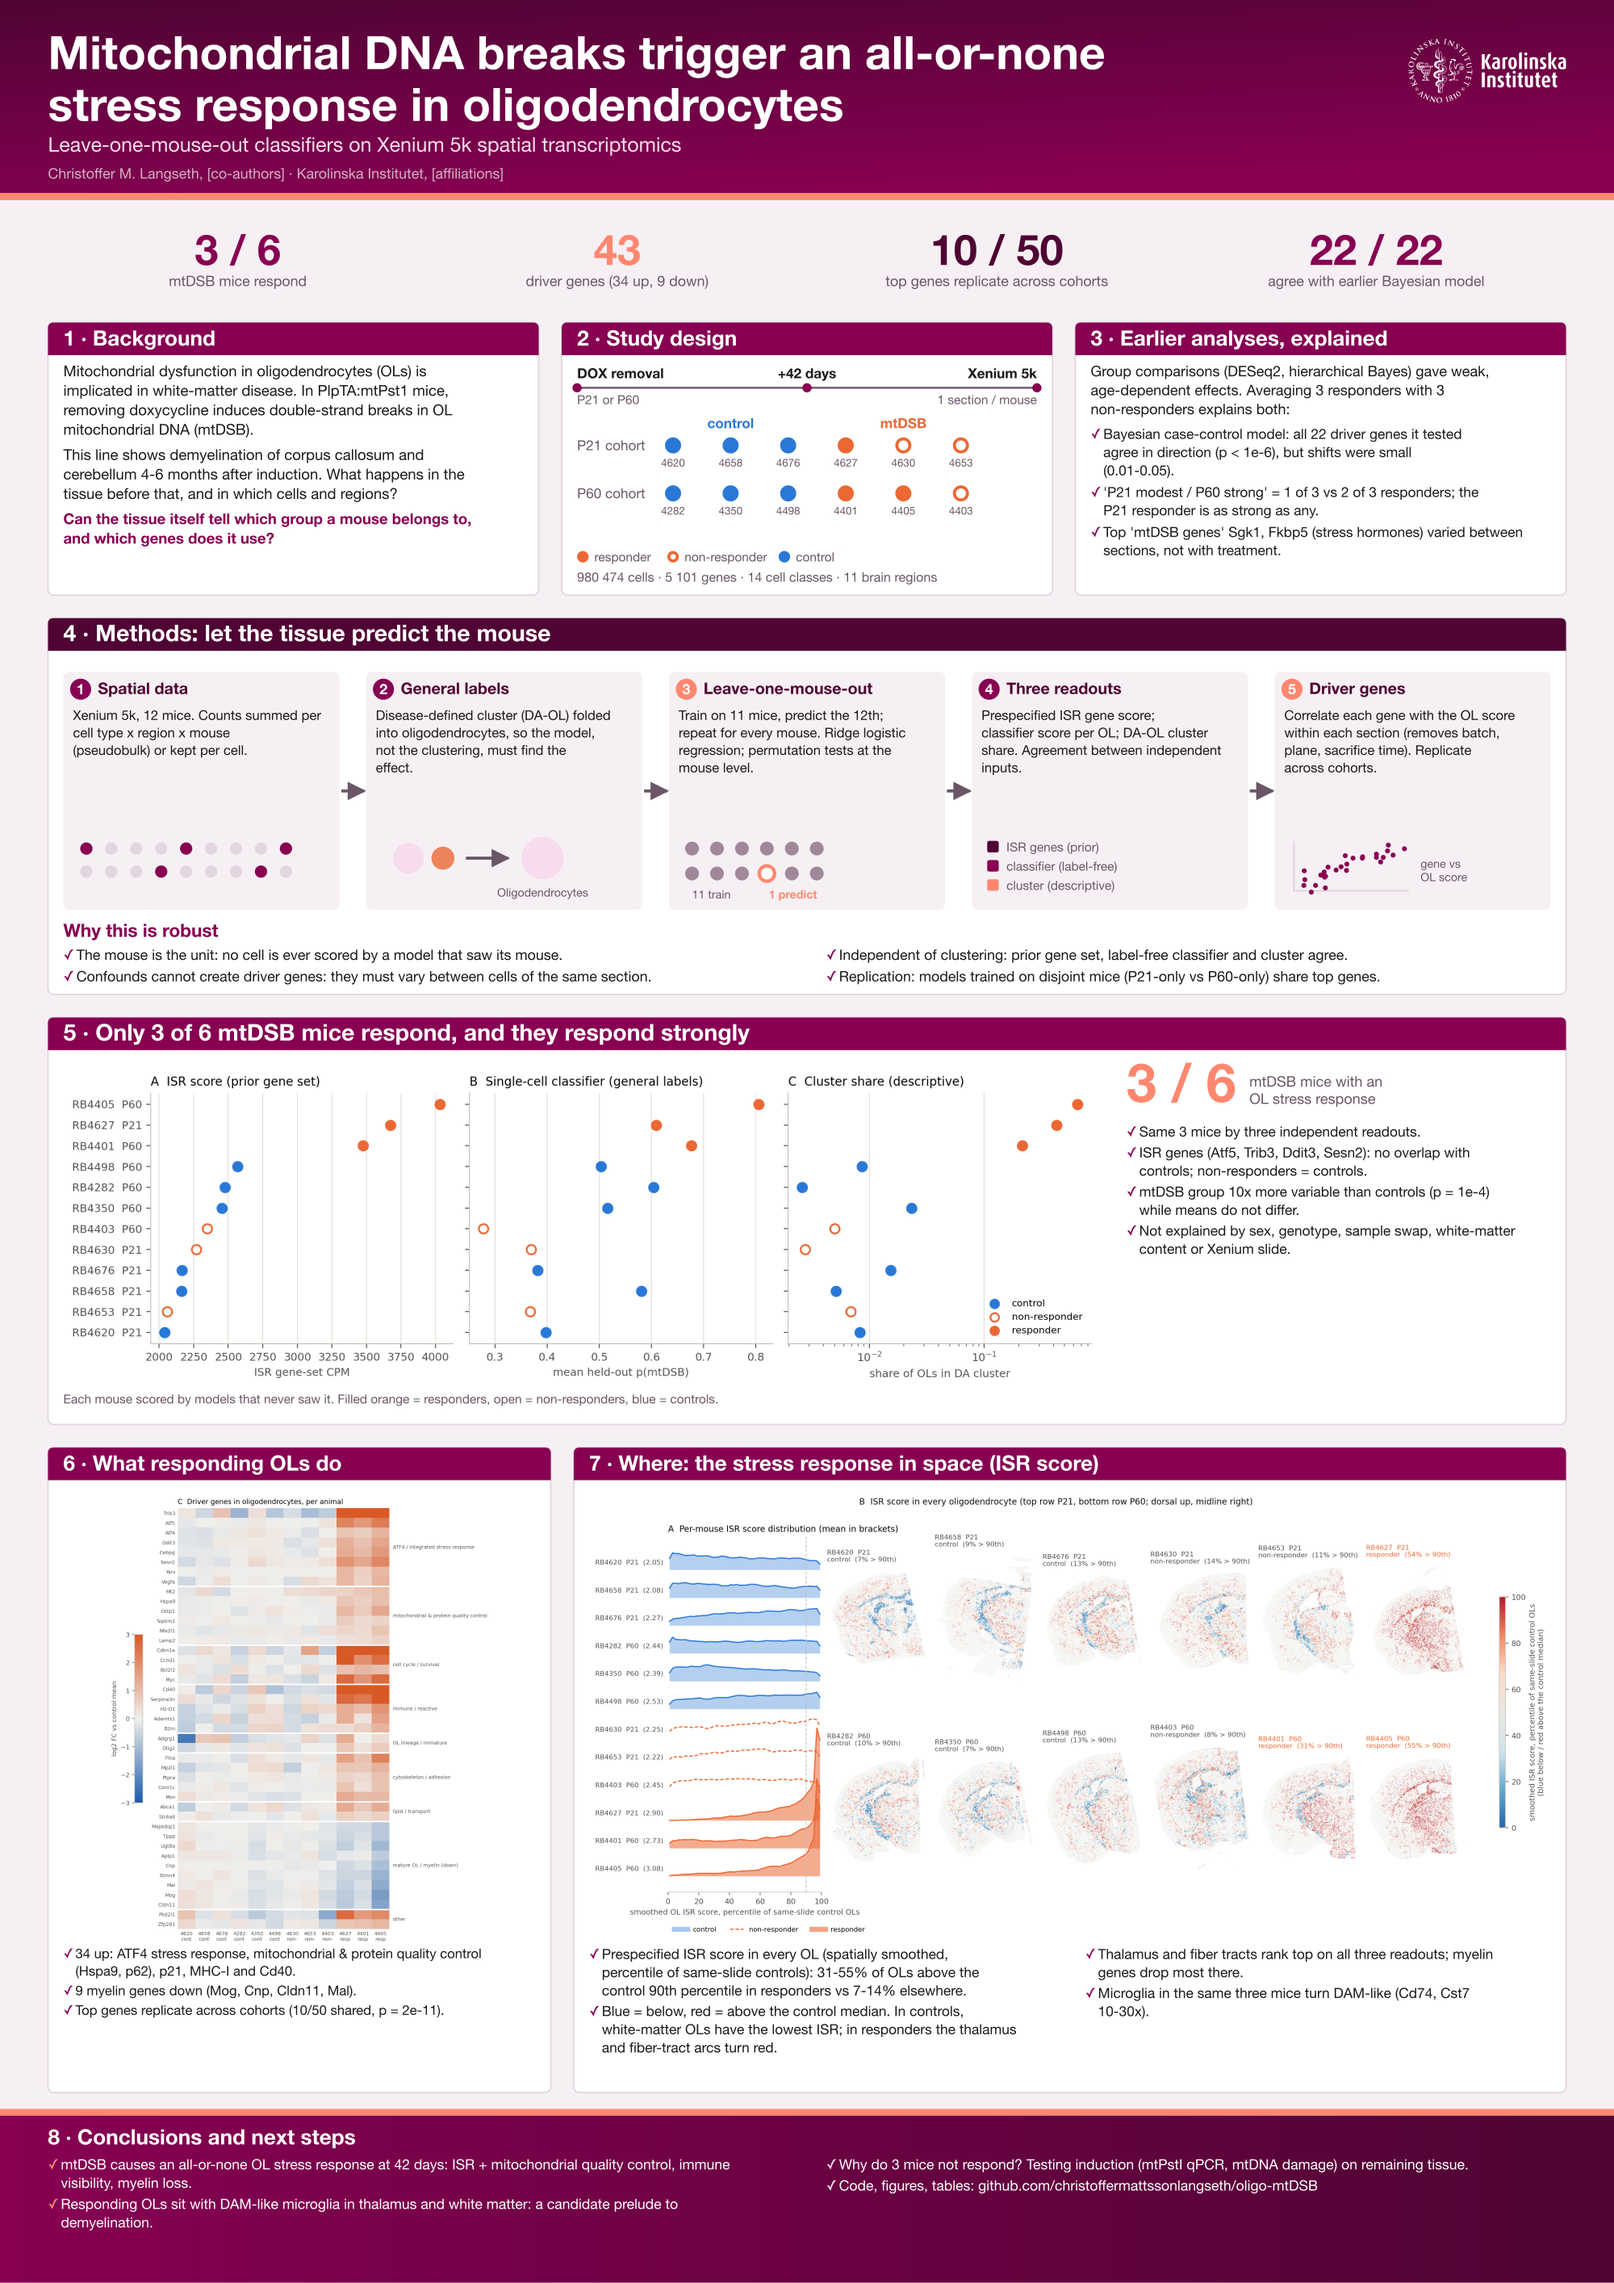
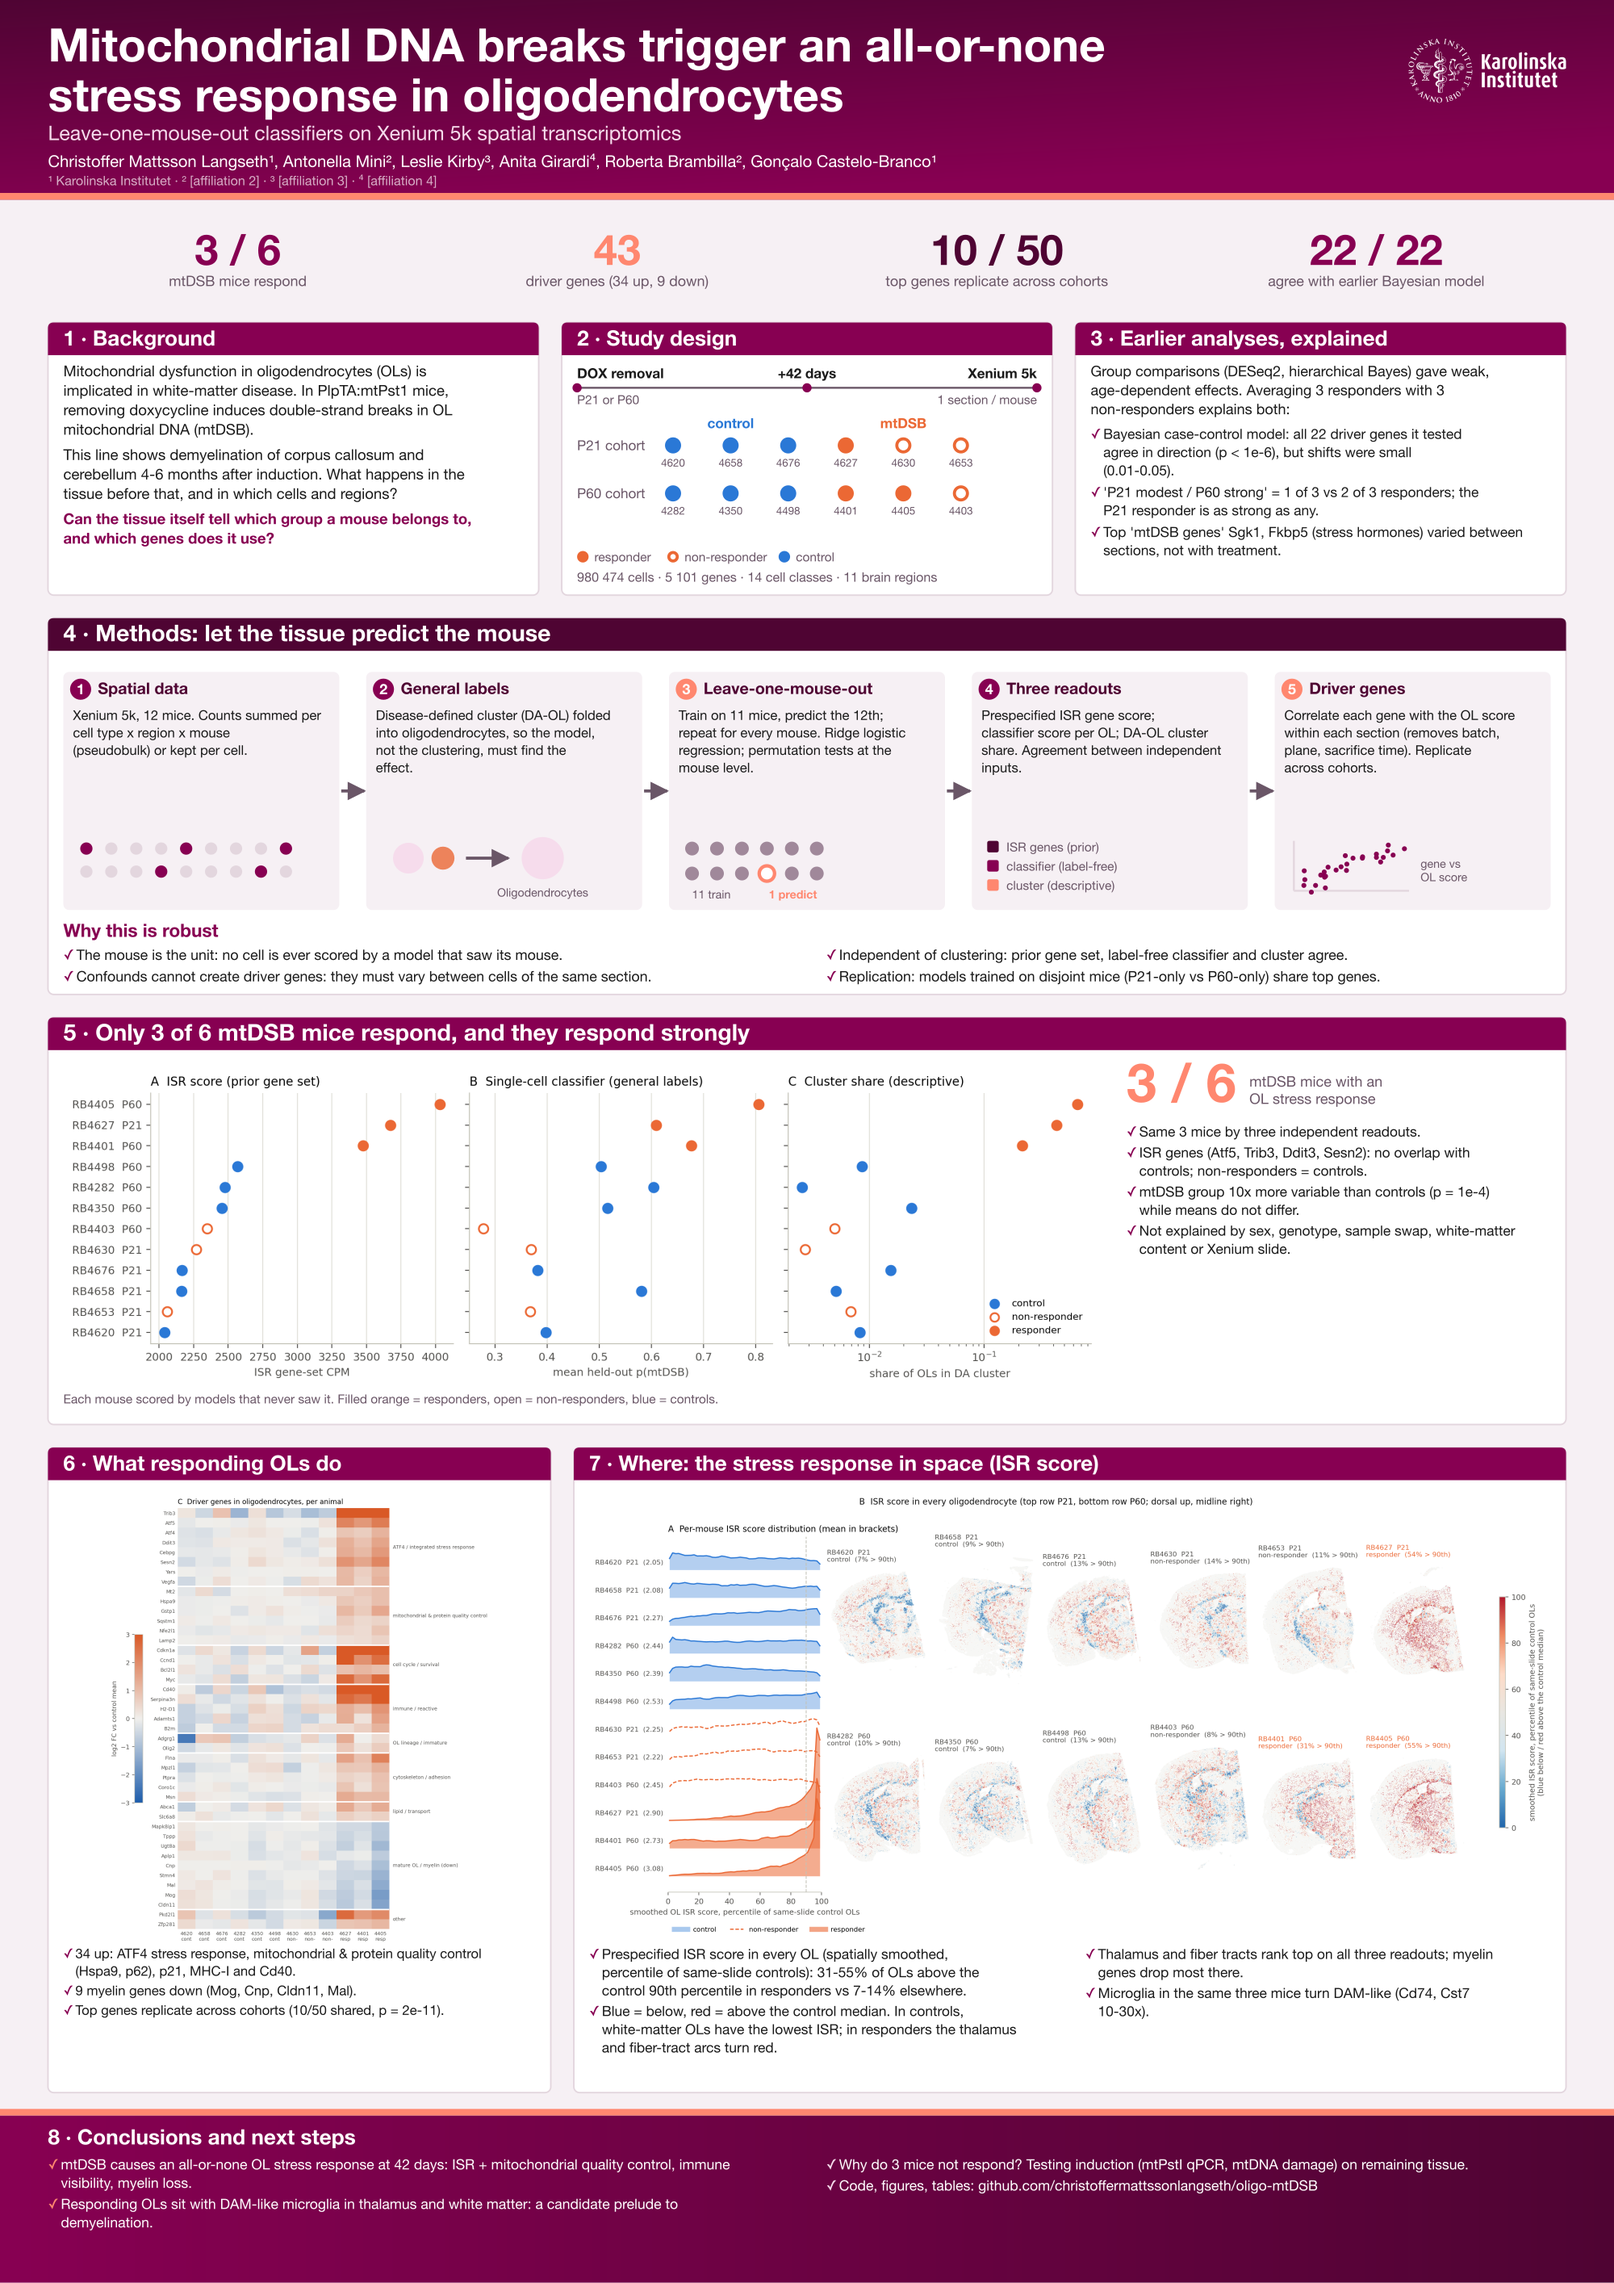
Poster: author list (affiliations 2-4 still placeholders)

Changed region(s): [[0.031, 0.0, 0.682, 0.0934]]

diff --git a/docs/poster/make_poster.py b/docs/poster/make_poster.py
@@ -140,10 +140,14 @@ HH = 104
 add('<g id="header">')
 add(f'<rect x="0" y="0" width="{W}" height="{HH}" fill="url(#header-gradient)"/>')
 add(f'<rect x="0" y="{HH - 3.5}" width="{W}" height="3.5" fill="{CORAL}"/>')
-text(M, 36, "Mitochondrial DNA breaks trigger an all-or-none", size=24, color="#ffffff", weight="bold")
-text(M, 63, "stress response in oligodendrocytes", size=24, color="#ffffff", weight="bold")
-text(M, 79, "Leave-one-mouse-out classifiers on Xenium 5k spatial transcriptomics", size=10.5, color=PINK_LIGHT)
-text(M, 93, "Christoffer M. Langseth, [co-authors]  ·  Karolinska Institutet, [affiliations]", size=7.5, color=PINK_MID)
+text(M, 32, "Mitochondrial DNA breaks trigger an all-or-none", size=24, color="#ffffff", weight="bold")
+text(M, 58, "stress response in oligodendrocytes", size=24, color="#ffffff", weight="bold")
+text(M, 73, "Leave-one-mouse-out classifiers on Xenium 5k spatial transcriptomics", size=10.5, color=PINK_LIGHT)
+AUTHORS = ("Christoffer Mattsson Langseth\u00b9, Antonella Mini\u00b2, Leslie Kirby\u00b3, Anita Girardi\u2074, "
+           "Roberta Brambilla\u00b2, Gon\u00e7alo Castelo-Branco\u00b9")
+AFFILIATIONS = ("\u00b9 Karolinska Institutet  \u00b7  \u00b2 [affiliation 2]  \u00b7  \u00b3 [affiliation 3]  \u00b7  \u2074 [affiliation 4]")
+text(M, 87, AUTHORS, size=8.5, color="#ffffff")
+text(M, 96.5, AFFILIATIONS, size=6.8, color=PINK_MID)
 image(W - M - 82, 20, 82, 82 * 556 / 1356, "ki-logo-white.png", gid="ki_logo")
 add("</g>")
 
